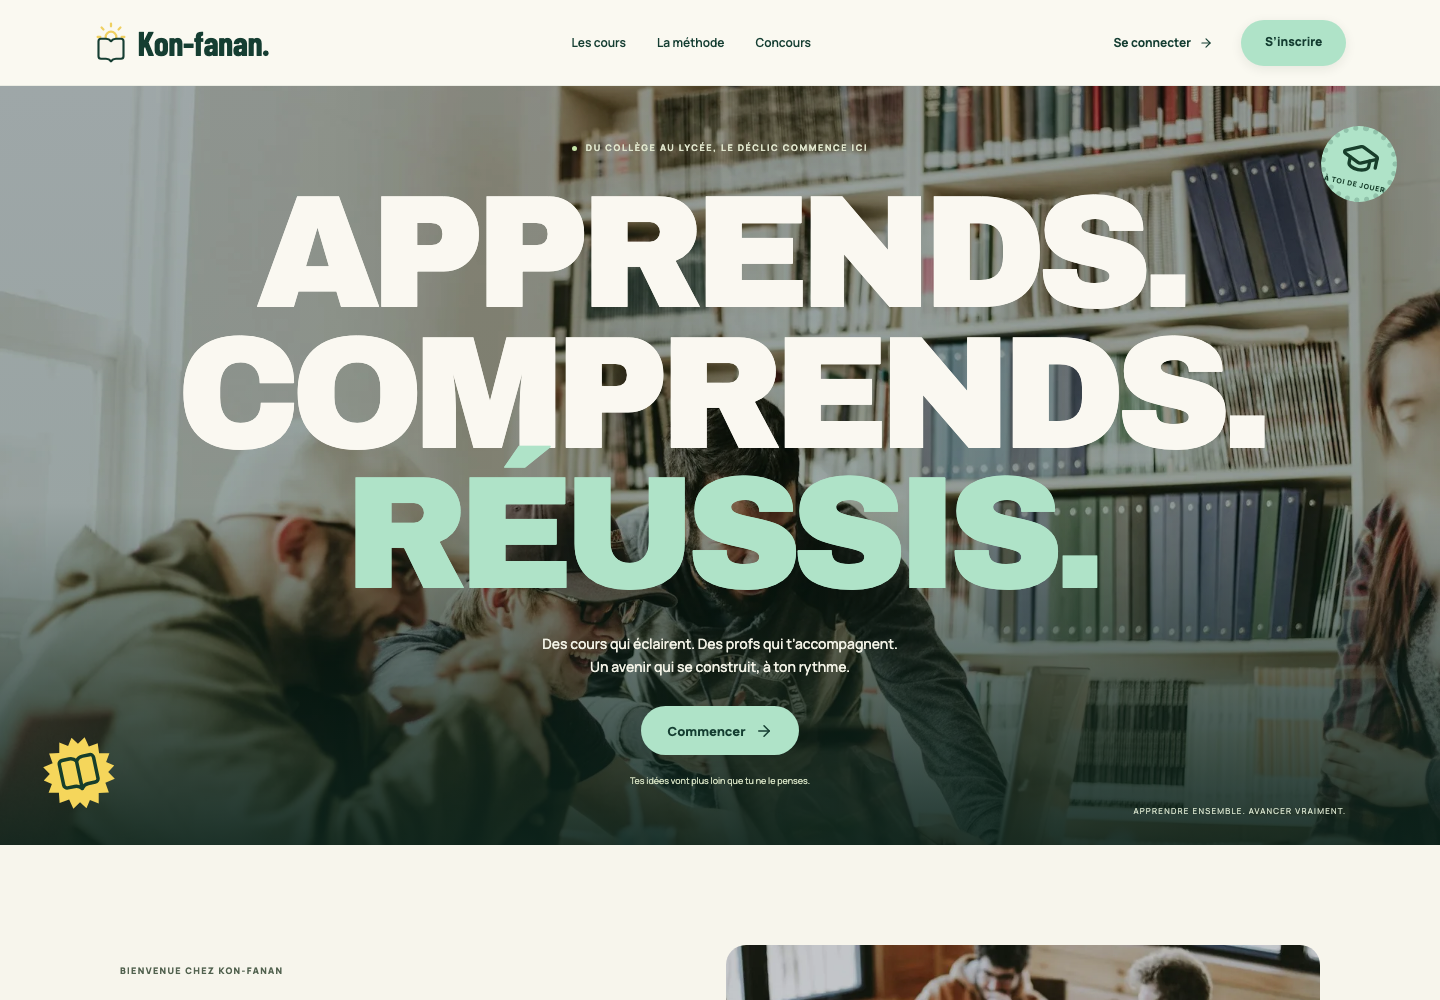
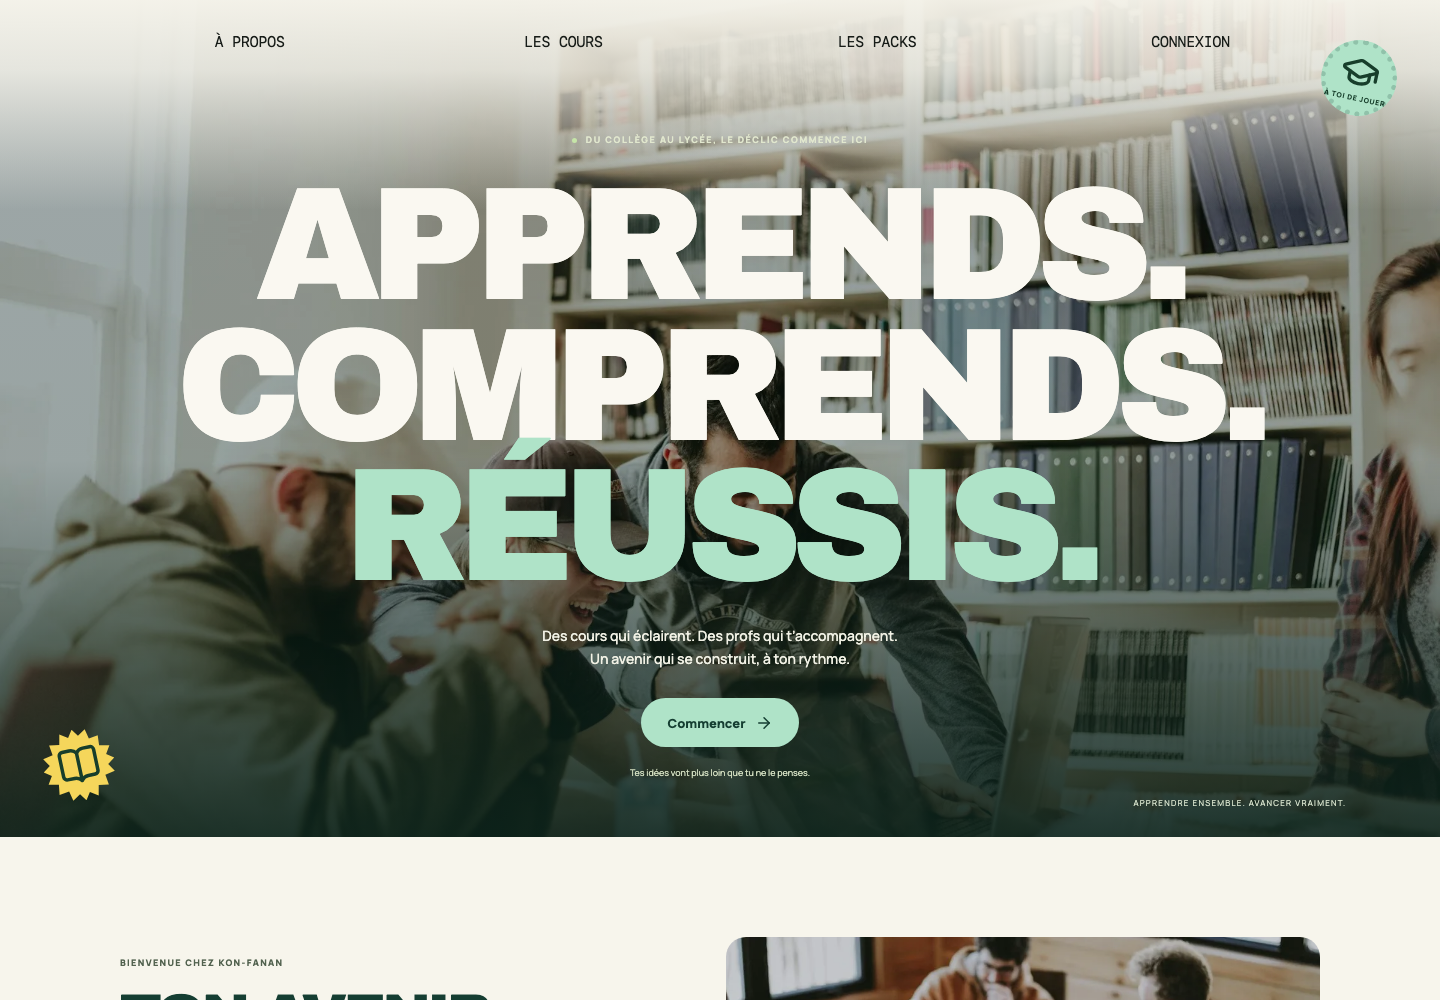
Match the landing navigation to the four-link reference

diff --git a/src/pages/Landing.tsx b/src/pages/Landing.tsx
@@ -1,6 +1,5 @@
 import { Link } from "react-router-dom";
 import "@fontsource/archivo-black/latin-400.css";
-import { useState } from "react";
 import {
   ArrowRight,
   BookOpen,
@@ -9,43 +8,21 @@ import {
   Lightbulb,
   Play,
   GraduationCap,
-  Menu,
-  X,
   Sparkles,
   Video,
 } from "lucide-react";
 import { Logo, ButtonLink } from "../components/ui";
 import { demoEnabled } from "../lib/supabase";
 export default function Landing() {
-  const [menu, setMenu] = useState(false);
   return (
     <div className="landing">
       <header className="landing-header">
-        <Logo />
-        <nav className={menu ? "open" : ""}>
-          <a href="#matieres" onClick={() => setMenu(false)}>
-            Les cours
-          </a>
-          <a href="#methode" onClick={() => setMenu(false)}>
-            La méthode
-          </a>
-          <a href="#challenges" onClick={() => setMenu(false)}>
-            Concours
-          </a>
+        <nav aria-label="Navigation principale">
+          <a href="#apropos">À propos</a>
+          <a href="#matieres">Les cours</a>
+          <Link to="/packs">Les packs</Link>
+          <Link to="/connexion">Connexion</Link>
         </nav>
-        <div className="landing-header-actions">
-          <Link to="/connexion" className="login-link">
-            Se connecter <ArrowRight size={14} />
-          </Link>
-          <ButtonLink to="/inscription">S’inscrire</ButtonLink>
-          <button
-            className="icon-button mobile-only"
-            onClick={() => setMenu(!menu)}
-            aria-label={menu ? "Fermer le menu" : "Ouvrir le menu"}
-          >
-            {menu ? <X /> : <Menu />}
-          </button>
-        </div>
       </header>
       <main>
         <section className="landing-hero">
@@ -92,7 +69,7 @@ export default function Landing() {
             APPRENDRE ENSEMBLE. AVANCER VRAIMENT.
           </div>
         </section>
-        <section className="intro-section landing-section">
+        <section id="apropos" className="intro-section landing-section">
           <div className="intro-copy">
             <span className="editorial-kicker">BIENVENUE CHEZ KON-FANAN</span>
             <h2>

diff --git a/src/styles.css b/src/styles.css
@@ -7159,3 +7159,86 @@ select option {
     font-size: 5px;
   }
 }
+
+/* Four quiet links float across the hero, following the supplied navbar reference. */
+.landing {
+  position: relative;
+}
+.landing .landing-header {
+  position: absolute;
+  inset: 20px 0 auto;
+  height: auto;
+  padding: 0 7%;
+  display: block;
+  border: 0;
+  background: transparent;
+  box-shadow: none;
+}
+.landing .landing-header nav {
+  position: static;
+  inset: auto;
+  display: grid;
+  grid-template-columns: repeat(4, minmax(0, 1fr));
+  width: 100%;
+  align-items: center;
+  gap: 16px;
+  padding: 0;
+  border: 0;
+  border-radius: 0;
+  background: transparent;
+  box-shadow: none;
+  color: #171c18;
+  font-family: ui-monospace, SFMono-Regular, Menlo, monospace;
+  font-size: clamp(11px, 1.05vw, 15px);
+  font-weight: 700;
+  text-transform: uppercase;
+  letter-spacing: -0.035em;
+}
+.landing .landing-header nav > a {
+  display: flex;
+  align-items: center;
+  justify-content: center;
+  min-height: 44px;
+  padding: 8px 4px;
+  white-space: nowrap;
+  text-align: center;
+  text-underline-offset: 5px;
+}
+.landing .landing-header nav > a:hover {
+  text-decoration: underline;
+}
+.landing .landing-header nav > a:focus-visible {
+  outline: 2px solid #153e32;
+  outline-offset: 3px;
+  border-radius: 3px;
+}
+.landing .landing-hero .hero-shade {
+  background:
+    linear-gradient(
+      180deg,
+      rgba(247, 245, 236, 0.96) 0,
+      rgba(247, 245, 236, 0.8) 70px,
+      rgba(247, 245, 236, 0) 210px
+    ),
+    linear-gradient(0deg, #0c241ce3 0%, #0b291a43 45%, #0c241c3d 100%);
+}
+.landing .hero-content {
+  padding-top: 126px;
+}
+@media (max-width: 760px) {
+  .landing .landing-header {
+    inset: 14px 0 auto;
+    padding: 0 12px;
+  }
+  .landing .landing-header nav {
+    font-size: 11px;
+    gap: 4px;
+    letter-spacing: -0.04em;
+  }
+  .landing .hero-content {
+    padding-top: 106px;
+  }
+  .landing .grad-sticker {
+    top: 84px;
+  }
+}

diff --git a/docs/DESIGN.md b/docs/DESIGN.md
@@ -8,6 +8,8 @@ La demande actuelle prime sur les anciens panneaux crème des espaces connectés
 
 Fond crème `#F7F5EC`, vert forêt `#153E32`, menthe `#AFE3C8`, photographies larges et Manrope pour le texte. Les titres de landing utilisent désormais Archivo Black, une fonte large et épaisse aux lettres rapprochées, inspirée du nouveau visuel fourni. Les textes et la palette existants sont conservés. Barlow Condensed reste utilisée ailleurs dans l’application. Les sections suivent la référence : hero, présentation, matières, méthode, défis, étapes et CTA. Aucun témoignage, effectif marketing ou pourcentage de réussite inventé.
 
+La navbar suit aussi le nouveau visuel : quatre liens noirs en capitales monospaces, répartis régulièrement en haut du hero, sans bande de fond ni boutons. Les destinations sont adaptées à l’application : À propos, Les cours, Les packs et Connexion. Les quatre liens restent visibles et utilisables au clavier et sur téléphone, avec des cibles de 44 px de hauteur. Un voile clair progressif en haut de la photo maintient la lisibilité.
+
 ## Espaces connectés
 
 Photographie plein écran avec voile sombre. Panneaux `rgba(28,27,26,.40)`, bordures blanches fines, flou réel 24 px, rayons 20–24 px. Cartes internes très transparentes, texte ivoire, accents menthe et orange limités. Les leçons et les formulaires utilisent une surface plus opaque pour garder le contraste. Le CSS prévoit un fond de remplacement si `backdrop-filter` est absent.

diff --git a/docs/VERIFICATION.md b/docs/VERIFICATION.md
@@ -33,6 +33,7 @@ Exécution locale : macOS arm64, Node.js 26, Chromium headless via Playwright. L
 - Élargissement du cours et déplacement des exercices sous le contenu : build et cinq scénarios navigateur ciblés réussis. Le test vérifie la largeur du lecteur public et l’ordre visuel des exercices dans les deux parcours.
 - PDF sélectionné dès la création d’exercice, consigne textuelle facultative avec PDF, validation avant publication, document ouvert par l’étudiant autorisé, visiteur orienté vers les packs, envoi interrompu puis repris sans doublon, formats invalides refusés et affichage mobile. Le scénario d’ouverture vérifie le contenu PDF du lien émis ; il ne prétend pas contrôler le lecteur natif de tous les navigateurs.
 - Nouvelle fonte Archivo Black : contrôle des limites du titre et de l’absence de débordement à 360, 390, 768, 1024 et 1440 px, avec captures ordinateur/téléphone.
+- Navbar à quatre liens sur une même ligne, fond transparent : positions et absence de débordement vérifiées à 320, 360, 390, 768 et 1440 px, destinations À propos/Packs/Connexion contrôlées. Le contrôle axe existant des écrans principaux réussit après ce changement.
 
 Ces parcours navigateur utilisent la démonstration isolée. Les règles de production sont vérifiées séparément dans PostgreSQL, pas déduites de l’interface.
 
